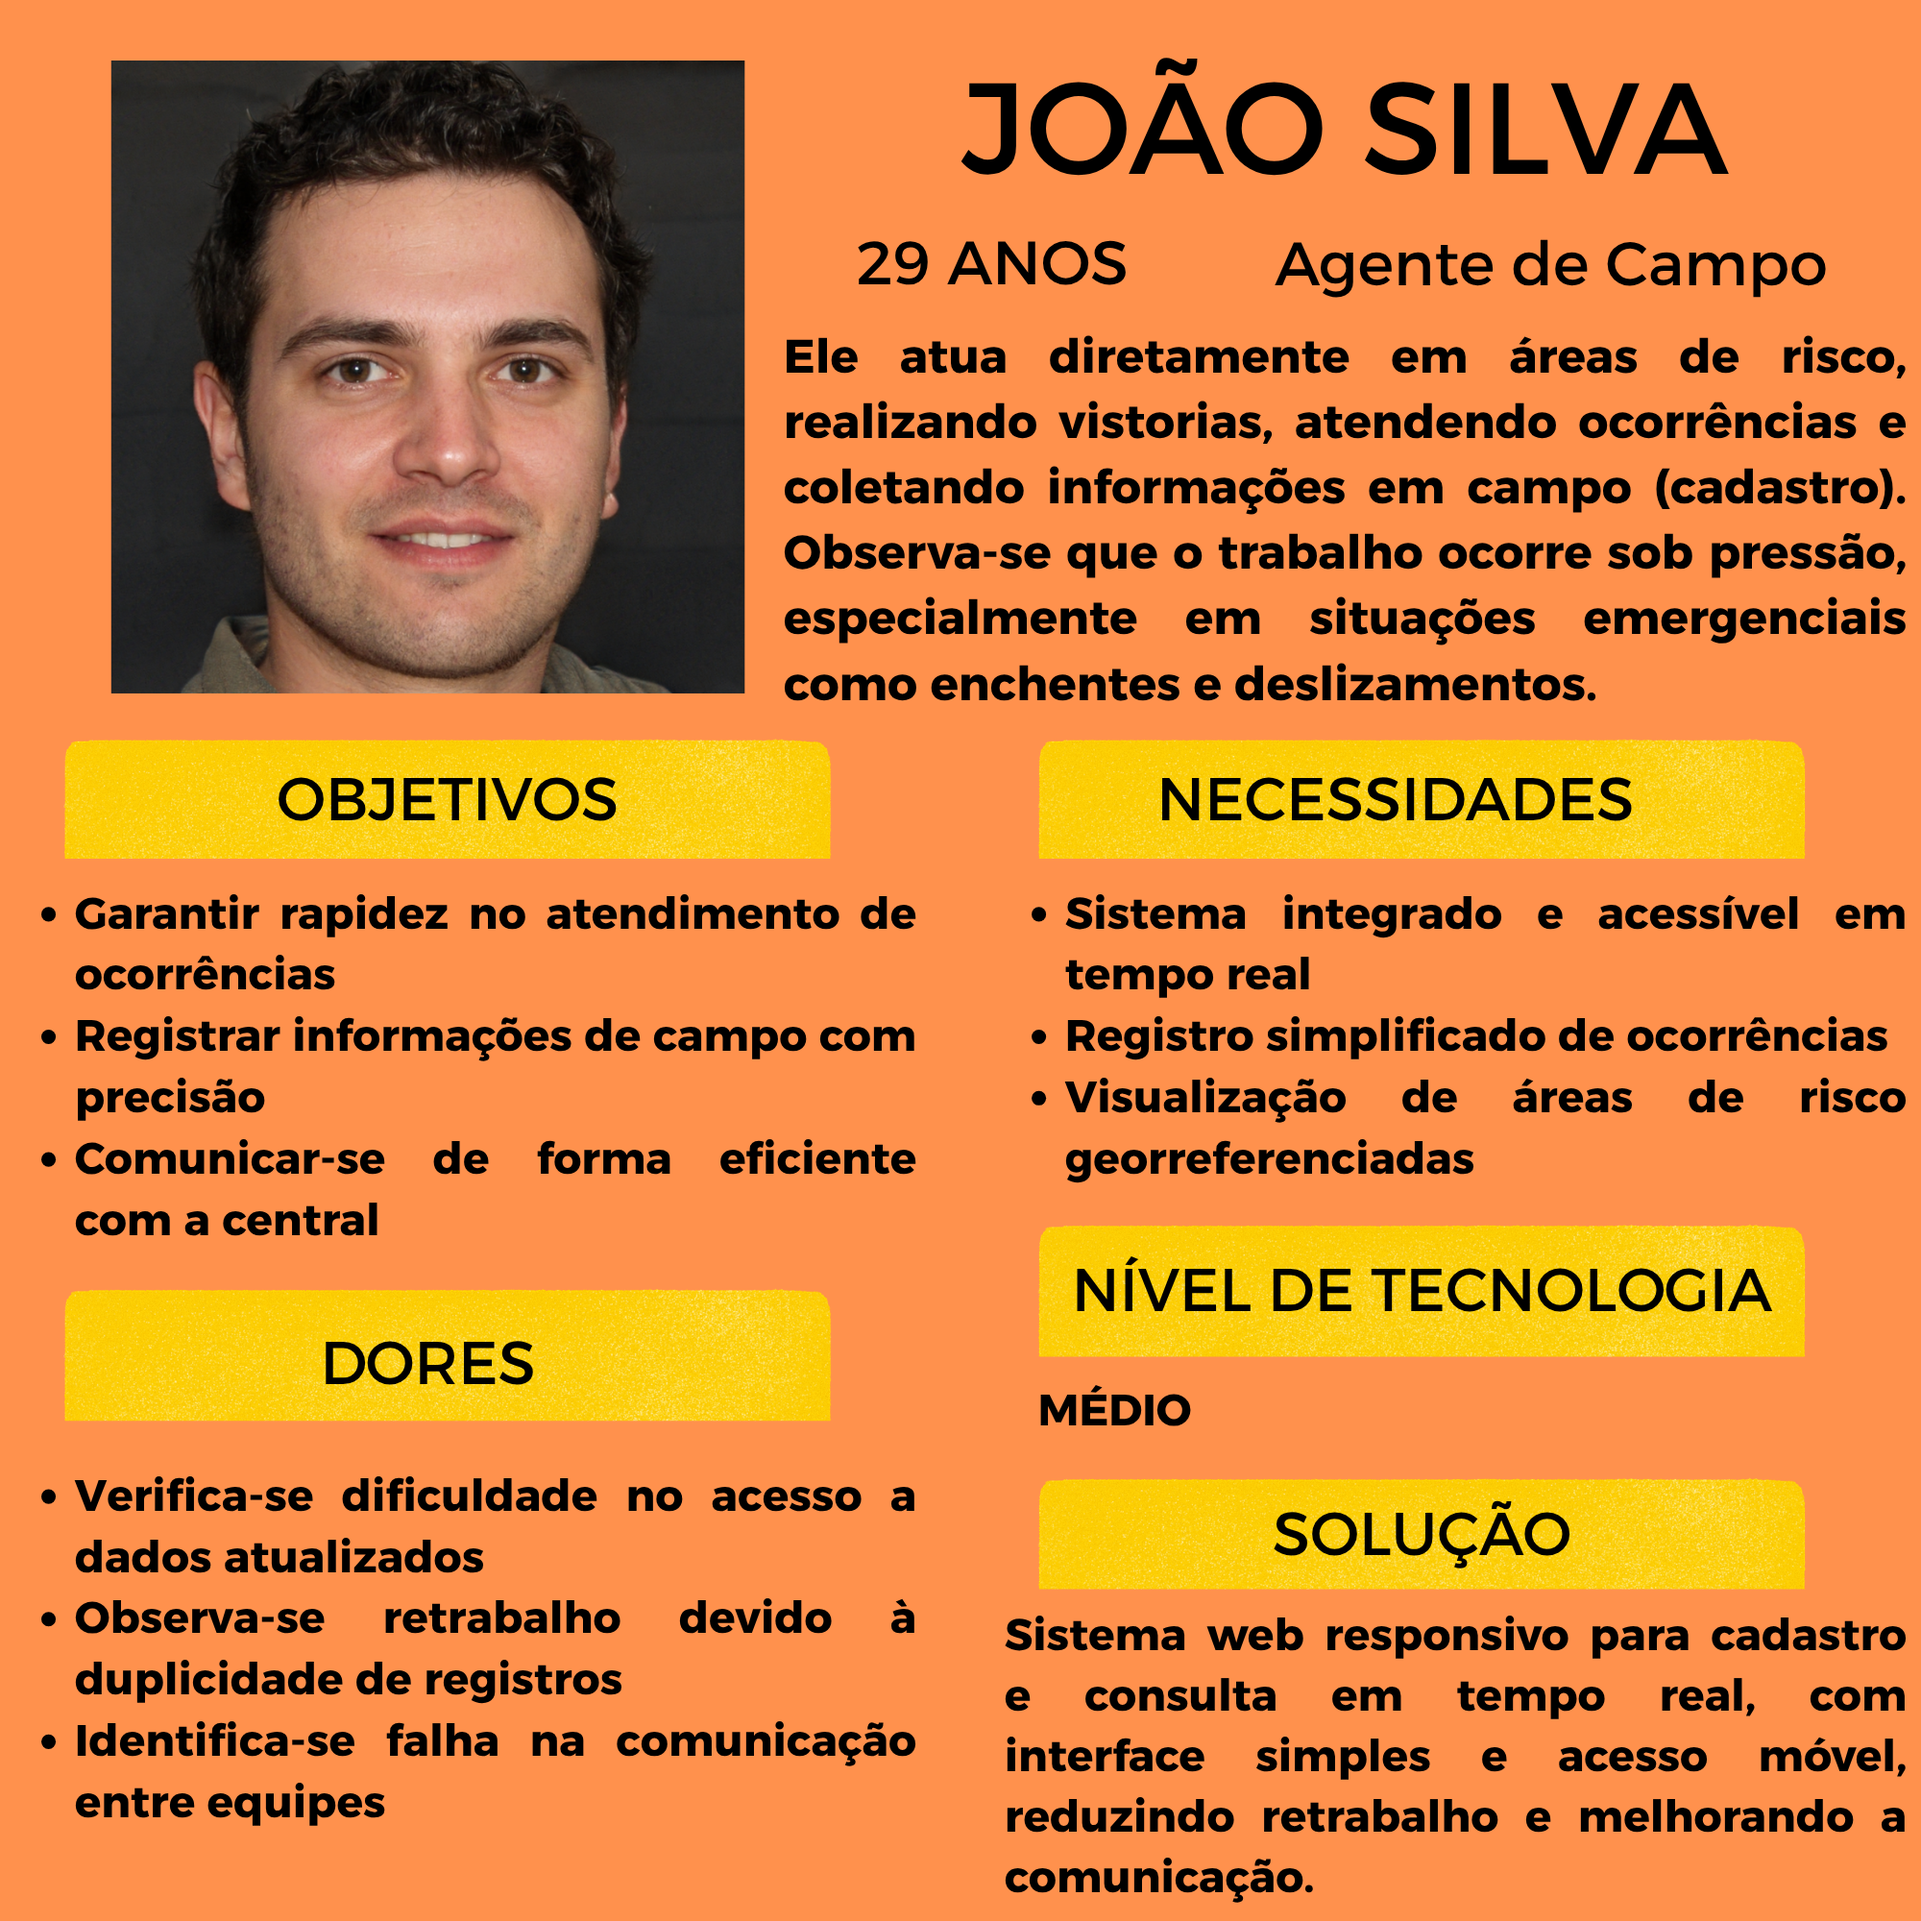
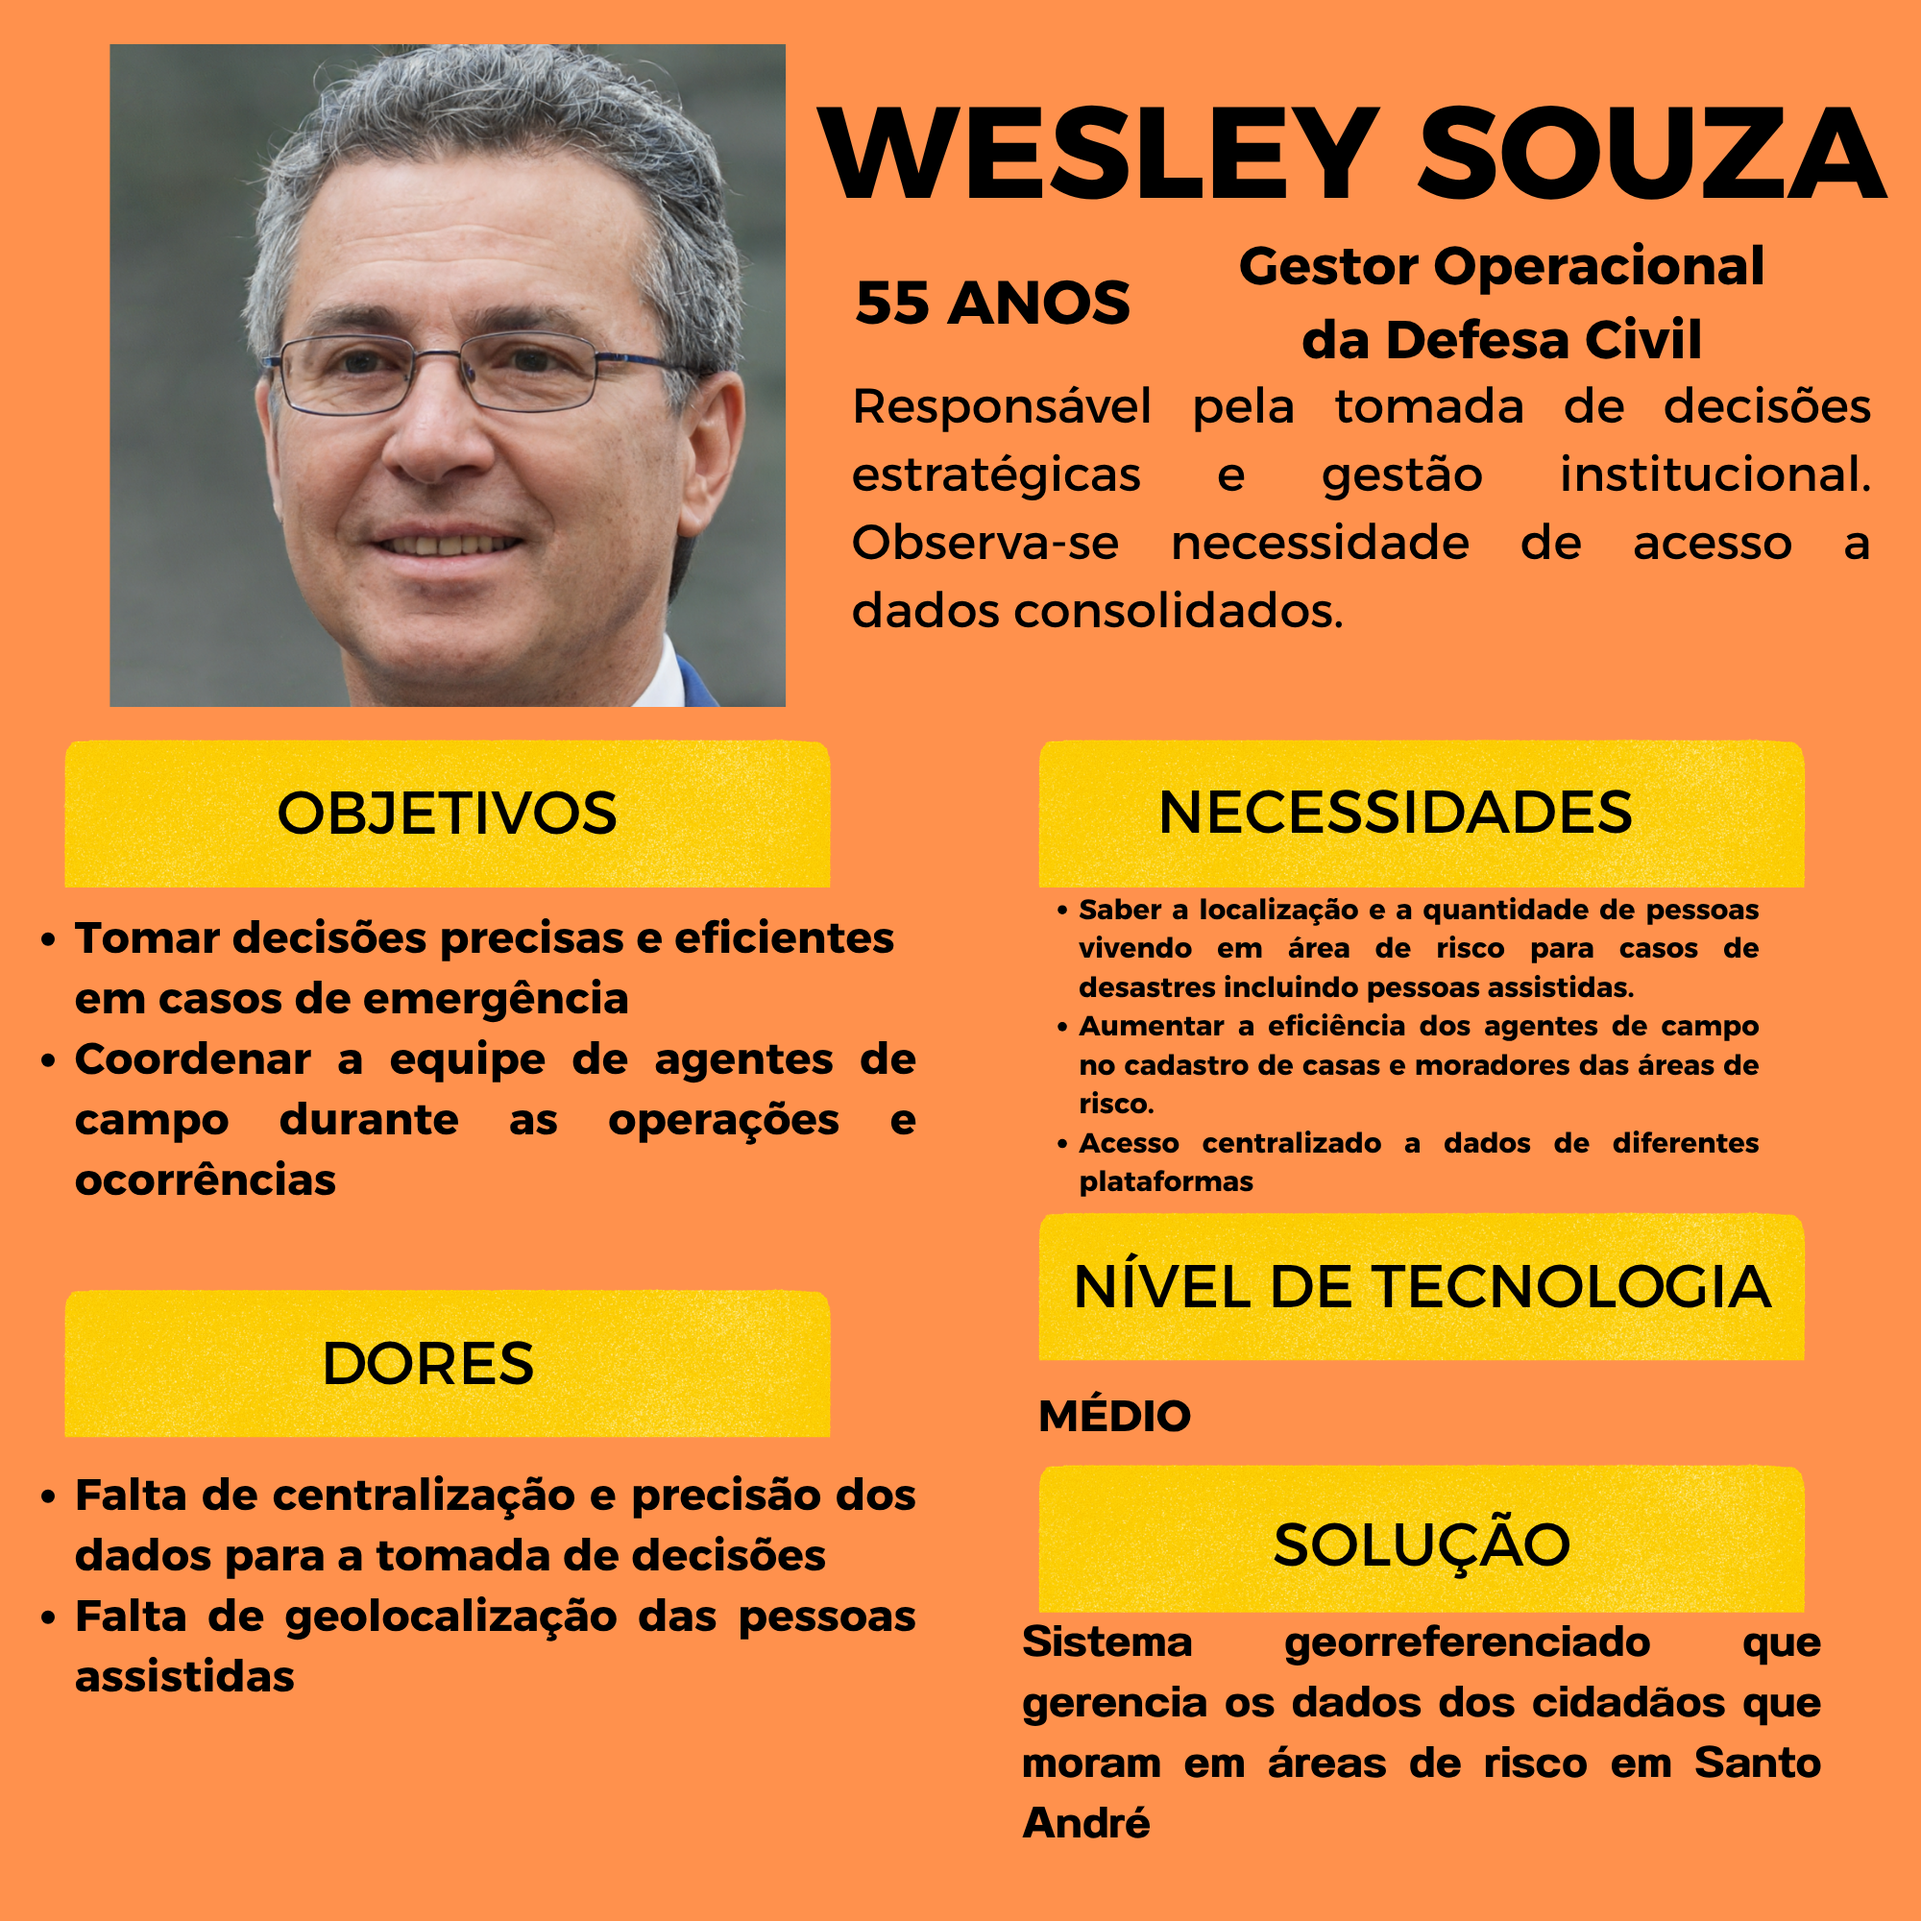
doc(wad): atualizar personas #44

diff --git a/documentos/wad.md b/documentos/wad.md
@@ -235,9 +235,9 @@ As personas apresentadas abaixo caracterizam-se como proto-personas, construída
 
 <img src="../assets/persona2.png" width="520" height="520"> <img src="../assets/persona1.png" width="520" height="520"> 
 
-Identificamos dois tipos de proto-personas possíveis para o âmbito em questão: agente de campo e diretor da Defesa Civil. Primeiro, o agente de campo, que no caso é o indivíduo que se responsabiliza pelas conduções das operações nos atendimentos emergencial, como apontado acima com o João, em que dados demográficos, comportamentos e solução para o perfil de João representam um quadro hipotético que nos evidencia um jeito de humanizar o público-alvo para adotar estratégias mais assertivas e centradas no usuário real. 
+Identificamos dois tipos de proto-personas possíveis para o âmbito em questão: agente de campo e diretor da Defesa Civil. Primeiro, o agente de campo, que no caso é o indivíduo que se responsabiliza pelas conduções das operações nos atendimentos emergenciais, como apontado acima com o João, em que dados demográficos, comportamentos e solução para o perfil de João representam um quadro hipotético que nos evidencia um jeito de humanizar o público-alvo para adotar estratégias mais assertivas e centradas no usuário real. 
 
-Além disso, tem-se o diretor da Defesa Civil, que atua no nível estratégico da operação, sendo responsável pela análise de dados consolidados, definição de prioridades e tomada de decisões em cenários de risco. Nesse contexto, observa-se que a persona atribuída a esse perfil, representada de forma hipotética, permite compreender suas principais necessidades, como acesso rápido a informações confiáveis, visualização de indicadores e geração de relatórios. Dessa forma, assim como no caso do agente de campo, a construção dessa proto-persona contribui para orientar o desenvolvimento de funcionalidades alinhadas às demandas reais do usuário, promovendo uma solução mais eficiente, integrada e centrada no processo decisório.
+Além disso, tem-se o diretor da Defesa Civil, o Wesley, que atua no nível estratégico da operação, sendo responsável pela análise de dados consolidados, definição de prioridades e tomada de decisões em cenários de risco. Nesse contexto, observa-se que a persona atribuída a esse perfil, representada de forma hipotética, permite compreender suas principais necessidades, como acesso centralizado a dados de diferentes plataformas, conhecimento sobre as informações das pessoas e suas localidades em áreas de risco e aumentar a eficiência dos agentes de campo no cadastro de casas e moradores. Dessa forma, assim como no caso do agente de campo, a construção dessa proto-persona contribui para orientar o desenvolvimento de funcionalidades alinhadas às demandas reais do usuário, promovendo uma solução mais eficiente, integrada e centrada no processo decisório.
 
 *Observação: Fotos extraídas de um site produtor de imagens de pessoas inexistentes*: [This Person Does Not Exist](https://thispersondoesnotexist.com/)
 
